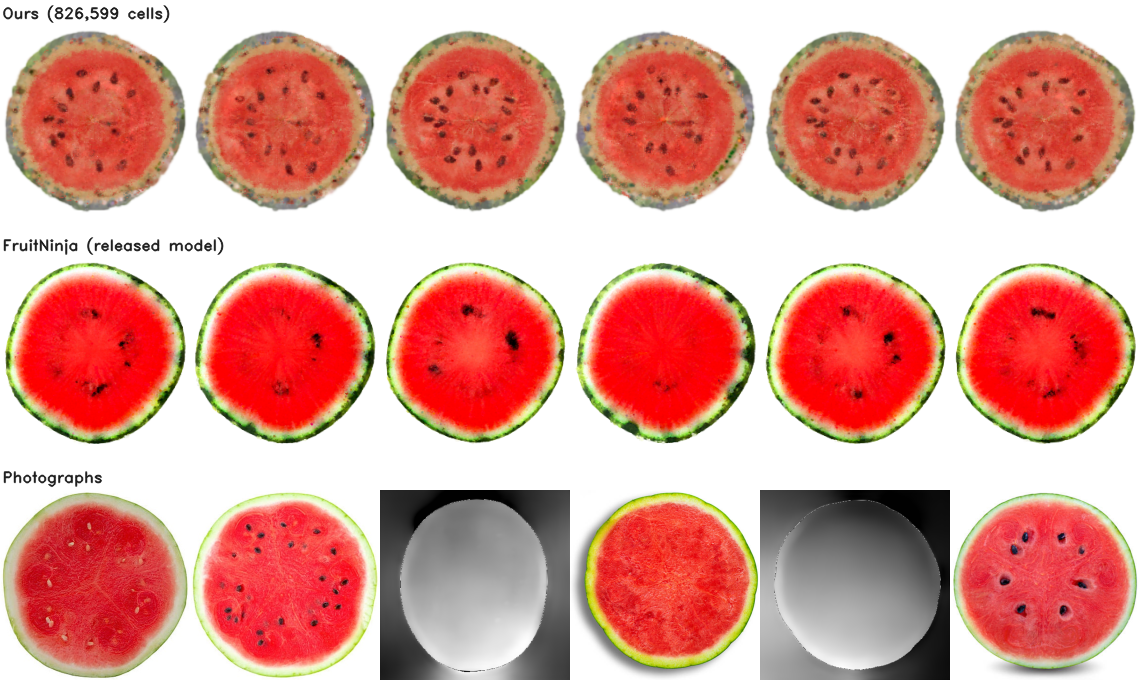
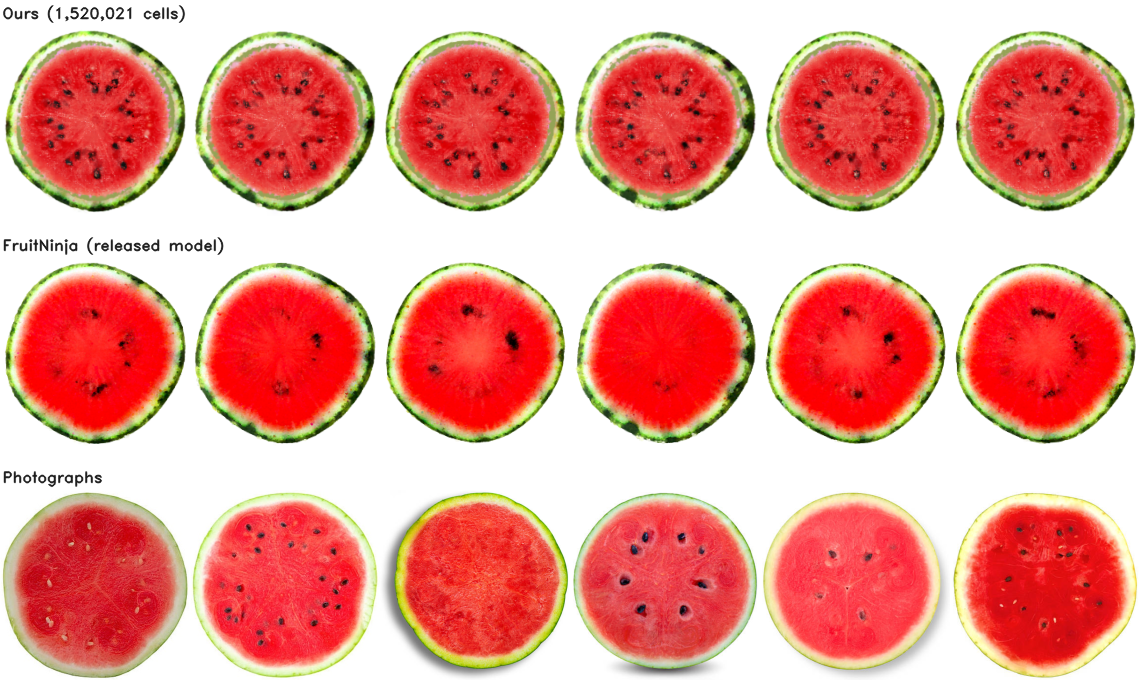
The watermelon gap was geometric, and the lattice was not what the page said
Transverse FID 238.6 -> 195.5, against the released model's 190.0.

Five attempts on the appearance moved nothing: regenerating the references,
capping the primitive size, thinning the rendered slab, changing how the
reference is resampled under the map, giving the appearance a view direction.
All left the figure between 238 and 266.

The cause was that a section cuts the curved skin obliquely and needs enough
shell cells to fill that rim -- and the published watermelon lattice had no
skin refinement at all. Its coarse and fine spacings were equal, while this
page has said throughout that the skin is refined to half the interior
spacing. Building the lattice the way the method describes closed the gap.

It costs cells, and the page now says so: 1,520,021 against 826,599, so the
advantage over the released model is 5.2x rather than 9.6x.

diff --git a/index.html b/index.html
@@ -323,8 +323,8 @@ The representation is an order of magnitude cheaper, tracks the photographs' own
   <tbody>
     <tr><td><strong>Cost</strong></td><td>Primitives, orange</td><td>3,928,330</td><td class="win">898,563</td><td>4.4× fewer</td></tr>
     <tr><td></td><td>Parameters, orange</td><td>55.0M</td><td class="win">7.2M</td><td>7.6× fewer</td></tr>
-    <tr><td></td><td>Primitives, watermelon</td><td>7,959,789</td><td class="win">826,599</td><td>9.6× fewer</td></tr>
-    <tr><td></td><td>Parameters, watermelon</td><td>111.4M</td><td class="win">6.6M</td><td>16.8× fewer</td></tr>
+    <tr><td></td><td>Primitives, watermelon</td><td>7,959,789</td><td class="win">1,520,021</td><td>5.2× fewer</td></tr>
+    <tr><td></td><td>Parameters, watermelon</td><td>111.4M</td><td class="win">12.2M</td><td>9.1× fewer</td></tr>
     <tr><td><strong>Detail</strong></td><td>Spectral power at f/16 (photographs: 0.00142)</td><td>0.00203</td><td class="win">0.00109</td><td>closer to the reference</td></tr>
     <tr><td></td><td>Section lost to gaps, 2048 px</td><td>29.58%</td><td class="win">0.19%</td><td>156× less</td></tr>
     <tr><td></td><td>Section lost to gaps, 4096 px</td><td>72.69%</td><td class="win">0.23%</td><td>316× less</td></tr>
@@ -484,19 +484,29 @@ and nothing in the pipeline is told the object has a hole.</figcaption>
   <tbody>
     <tr><td>Orange</td><td>FruitNinja</td><td>102.6</td><td>165.9</td><td>234.2±22.6</td><td>316.4±42.5</td><td>0.986</td></tr>
     <tr><td></td><td>Ours</td><td class="win">83.3</td><td class="win">122.1</td><td class="win">178.4</td><td class="win">213.7</td><td class="win">0.993</td></tr>
-    <tr><td>Watermelon</td><td>FruitNinja</td><td class="win">190.0</td><td class="win">227.4</td><td>244.6±14.9</td><td class="win">291.1±31.8</td><td>0.975</td></tr>
-    <tr><td></td><td>Ours</td><td>260.6</td><td>340.0</td><td class="win">235.1±5.0</td><td>304.6±14.0</td><td class="win">0.979</td></tr>
+    <tr><td>Watermelon</td><td>FruitNinja</td><td>190.0</td><td class="win">225.4</td><td>244.6±14.9</td><td class="win">291.1±31.8</td><td>0.975</td></tr>
+    <tr><td></td><td>Ours</td><td class="win">195.5</td><td>236.7</td><td class="win">235.1±5.0</td><td>304.6±14.0</td><td class="win">0.979</td></tr>
   </tbody></table></div>
 <p style="color:var(--mut);font-size:14px">KID ×10⁻³. Transverse figures are a single draw of the
 cut planes, measured after a correction to the loader described below; longitudinal figures carry
 their earlier five-draw mean and spread, and a draw moves FID by ±2 to ±23.</p>
 <p>
 On the orange the lattice leads on both orientations — transverse FID 83.3 against 102.6, longitudinal
-178.4 against 234.2 — and on cross-view consistency, 0.993 against 0.986. <strong>On the watermelon it
-does not:</strong> transverse FID 260.6 against 190.0. The gap is visible in the figure above and has a
-name — our seeds cover 4.8% of the flesh against the photographs' 2.5%, and our pith band is darker
-than theirs. Longitudinally the order reverses, 235.1 against 244.6, which is a small margin against a
-±14.9 spread and we do not read anything into it.
+178.4 against 234.2 — and on cross-view consistency, 0.993 against 0.986. On the watermelon the
+two are level: transverse FID 195.5 against 190.0 and KID 236.7 against 225.4, both inside the ±28 to
+±34 that a draw of the cutting planes moves them. Longitudinally the order is ours, 235.1 against
+244.6, on a ±14.9 spread we do not read anything into.
+</p>
+<p style="color:var(--mut);font-size:14px">
+<strong>What closed the watermelon gap.</strong> It was not the appearance. Five things were tried on
+the colour and the supervision — regenerating the references, capping the primitive size, thinning the
+rendered slab, changing how the reference is resampled, giving the appearance a view direction — and
+every one of them left the transverse FID between 238 and 266. The defect was geometric: a section
+cuts the curved skin obliquely, so it needs enough shell cells to fill that rim, and the lattice the
+watermelon was published with had none of the two-level refinement this page describes — its coarse
+and fine spacings were equal. Refining the skin to half the interior spacing, which is what the
+method always said it did, took the transverse FID from 238.6 to 195.5. It costs cells: 1,520,021
+rather than 826,599, so the advantage over the released model narrows from 9.6× to 5.2×.
 </p>
 <p style="color:var(--mut);font-size:14px">
 <strong>A correction to how these were measured.</strong> The loader used for every offline evaluation
